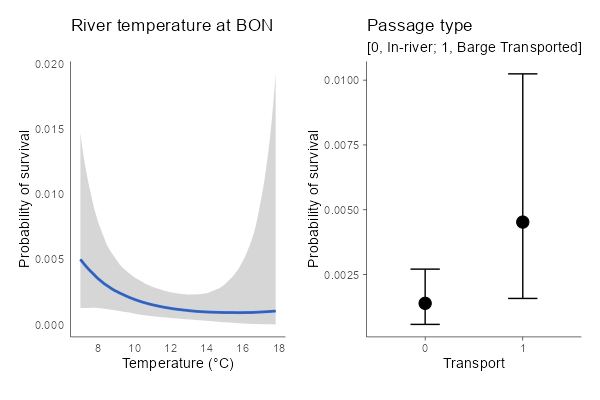
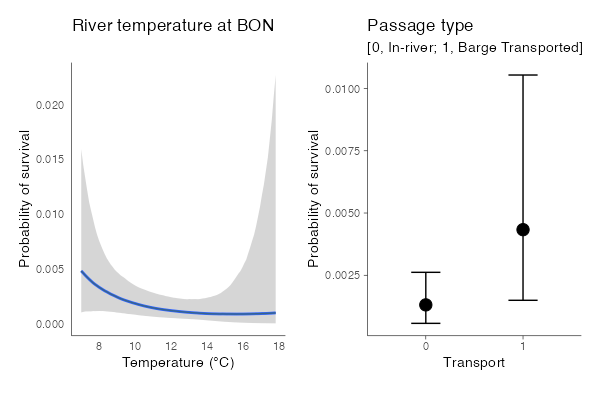
update estimate table and and cond_eff pngs

diff --git a/inst/app/www/table_mod_hatchery_chinook_temp.html b/inst/app/www/table_mod_hatchery_chinook_temp.html
@@ -12,37 +12,37 @@
 <tbody>
   <tr>
    <td style="text-align:left;"> Intercept </td>
-   <td style="text-align:right;"> -6.48 </td>
-   <td style="text-align:right;"> 0.39 </td>
-   <td style="text-align:right;"> -7.31 </td>
-   <td style="text-align:right;"> -5.81 </td>
+   <td style="text-align:right;"> -6.53 </td>
+   <td style="text-align:right;"> 0.38 </td>
+   <td style="text-align:right;"> -7.34 </td>
+   <td style="text-align:right;"> -5.84 </td>
   </tr>
   <tr>
    <td style="text-align:left;"> Temperature </td>
    <td style="text-align:right;"> -0.27 </td>
-   <td style="text-align:right;"> 0.09 </td>
-   <td style="text-align:right;"> -0.45 </td>
-   <td style="text-align:right;"> -0.10 </td>
+   <td style="text-align:right;"> 0.10 </td>
+   <td style="text-align:right;"> -0.47 </td>
+   <td style="text-align:right;"> -0.09 </td>
   </tr>
   <tr>
    <td style="text-align:left;"> Temp^2 </td>
    <td style="text-align:right;"> 0.03 </td>
    <td style="text-align:right;"> 0.06 </td>
-   <td style="text-align:right;"> -0.09 </td>
-   <td style="text-align:right;"> 0.14 </td>
+   <td style="text-align:right;"> -0.10 </td>
+   <td style="text-align:right;"> 0.13 </td>
   </tr>
   <tr>
    <td style="text-align:left;"> Transport </td>
-   <td style="text-align:right;"> 1.00 </td>
-   <td style="text-align:right;"> 0.32 </td>
-   <td style="text-align:right;"> 0.38 </td>
-   <td style="text-align:right;"> 1.69 </td>
+   <td style="text-align:right;"> 1.01 </td>
+   <td style="text-align:right;"> 0.33 </td>
+   <td style="text-align:right;"> 0.35 </td>
+   <td style="text-align:right;"> 1.70 </td>
   </tr>
   <tr>
    <td style="text-align:left;"> Temperature:Transport </td>
    <td style="text-align:right;"> 0.48 </td>
    <td style="text-align:right;"> 0.04 </td>
-   <td style="text-align:right;"> 0.40 </td>
+   <td style="text-align:right;"> 0.41 </td>
    <td style="text-align:right;"> 0.56 </td>
   </tr>
   <tr>
@@ -50,7 +50,7 @@
    <td style="text-align:right;"> -0.19 </td>
    <td style="text-align:right;"> 0.03 </td>
    <td style="text-align:right;"> -0.24 </td>
-   <td style="text-align:right;"> -0.13 </td>
+   <td style="text-align:right;"> -0.14 </td>
   </tr>
 </tbody>
 </table>

diff --git a/inst/app/www/table_mod_hatchery_steelhead_doy.html b/inst/app/www/table_mod_hatchery_steelhead_doy.html
@@ -13,15 +13,15 @@
   <tr>
    <td style="text-align:left;"> Intercept </td>
    <td style="text-align:right;"> -5.82 </td>
-   <td style="text-align:right;"> 0.25 </td>
-   <td style="text-align:right;"> -6.30 </td>
-   <td style="text-align:right;"> -5.33 </td>
+   <td style="text-align:right;"> 0.27 </td>
+   <td style="text-align:right;"> -6.39 </td>
+   <td style="text-align:right;"> -5.32 </td>
   </tr>
   <tr>
    <td style="text-align:left;"> Day-of-years (DOY) </td>
    <td style="text-align:right;"> -0.57 </td>
    <td style="text-align:right;"> 0.09 </td>
-   <td style="text-align:right;"> -0.75 </td>
+   <td style="text-align:right;"> -0.77 </td>
    <td style="text-align:right;"> -0.41 </td>
   </tr>
   <tr>
@@ -29,28 +29,28 @@
    <td style="text-align:right;"> -0.08 </td>
    <td style="text-align:right;"> 0.05 </td>
    <td style="text-align:right;"> -0.17 </td>
-   <td style="text-align:right;"> 0.01 </td>
+   <td style="text-align:right;"> 0.00 </td>
   </tr>
   <tr>
    <td style="text-align:left;"> Transport </td>
-   <td style="text-align:right;"> 0.75 </td>
+   <td style="text-align:right;"> 0.76 </td>
    <td style="text-align:right;"> 0.13 </td>
    <td style="text-align:right;"> 0.49 </td>
-   <td style="text-align:right;"> 1.02 </td>
+   <td style="text-align:right;"> 1.03 </td>
   </tr>
   <tr>
    <td style="text-align:left;"> DOY:Transport </td>
    <td style="text-align:right;"> 0.51 </td>
    <td style="text-align:right;"> 0.04 </td>
    <td style="text-align:right;"> 0.43 </td>
-   <td style="text-align:right;"> 0.59 </td>
+   <td style="text-align:right;"> 0.58 </td>
   </tr>
   <tr>
    <td style="text-align:left;"> DOY_z^2:Transport </td>
    <td style="text-align:right;"> -0.13 </td>
    <td style="text-align:right;"> 0.03 </td>
    <td style="text-align:right;"> -0.19 </td>
-   <td style="text-align:right;"> -0.07 </td>
+   <td style="text-align:right;"> -0.06 </td>
   </tr>
 </tbody>
 </table>

diff --git a/inst/app/www/table_mod_hatchery_chinook_doy.html b/inst/app/www/table_mod_hatchery_chinook_doy.html
@@ -12,31 +12,31 @@
 <tbody>
   <tr>
    <td style="text-align:left;"> Intercept </td>
-   <td style="text-align:right;"> -6.62 </td>
-   <td style="text-align:right;"> 0.43 </td>
-   <td style="text-align:right;"> -7.52 </td>
-   <td style="text-align:right;"> -5.82 </td>
+   <td style="text-align:right;"> -6.60 </td>
+   <td style="text-align:right;"> 0.40 </td>
+   <td style="text-align:right;"> -7.44 </td>
+   <td style="text-align:right;"> -5.83 </td>
   </tr>
   <tr>
    <td style="text-align:left;"> Day-of-years (DOY) </td>
    <td style="text-align:right;"> -0.23 </td>
-   <td style="text-align:right;"> 0.07 </td>
-   <td style="text-align:right;"> -0.37 </td>
+   <td style="text-align:right;"> 0.06 </td>
+   <td style="text-align:right;"> -0.35 </td>
    <td style="text-align:right;"> -0.11 </td>
   </tr>
   <tr>
    <td style="text-align:left;"> DOY^2 </td>
    <td style="text-align:right;"> 0.05 </td>
    <td style="text-align:right;"> 0.05 </td>
-   <td style="text-align:right;"> -0.06 </td>
-   <td style="text-align:right;"> 0.16 </td>
+   <td style="text-align:right;"> -0.05 </td>
+   <td style="text-align:right;"> 0.15 </td>
   </tr>
   <tr>
    <td style="text-align:left;"> Transport </td>
-   <td style="text-align:right;"> 0.95 </td>
-   <td style="text-align:right;"> 0.42 </td>
-   <td style="text-align:right;"> 0.09 </td>
-   <td style="text-align:right;"> 1.80 </td>
+   <td style="text-align:right;"> 0.91 </td>
+   <td style="text-align:right;"> 0.46 </td>
+   <td style="text-align:right;"> -0.04 </td>
+   <td style="text-align:right;"> 1.73 </td>
   </tr>
   <tr>
    <td style="text-align:left;"> DOY:Transport </td>
@@ -50,7 +50,7 @@
    <td style="text-align:right;"> -0.15 </td>
    <td style="text-align:right;"> 0.02 </td>
    <td style="text-align:right;"> -0.19 </td>
-   <td style="text-align:right;"> -0.12 </td>
+   <td style="text-align:right;"> -0.11 </td>
   </tr>
 </tbody>
 </table>

diff --git a/inst/app/www/table_mod_natural_steelhead_doy.html b/inst/app/www/table_mod_natural_steelhead_doy.html
@@ -13,36 +13,36 @@
   <tr>
    <td style="text-align:left;"> Intercept </td>
    <td style="text-align:right;"> -5.54 </td>
-   <td style="text-align:right;"> 0.23 </td>
+   <td style="text-align:right;"> 0.22 </td>
    <td style="text-align:right;"> -6.00 </td>
-   <td style="text-align:right;"> -5.06 </td>
+   <td style="text-align:right;"> -5.12 </td>
   </tr>
   <tr>
    <td style="text-align:left;"> Day-of-years (DOY) </td>
    <td style="text-align:right;"> -0.54 </td>
-   <td style="text-align:right;"> 0.12 </td>
-   <td style="text-align:right;"> -0.77 </td>
-   <td style="text-align:right;"> -0.31 </td>
+   <td style="text-align:right;"> 0.11 </td>
+   <td style="text-align:right;"> -0.76 </td>
+   <td style="text-align:right;"> -0.30 </td>
   </tr>
   <tr>
    <td style="text-align:left;"> DOY^2 </td>
    <td style="text-align:right;"> -0.09 </td>
    <td style="text-align:right;"> 0.06 </td>
-   <td style="text-align:right;"> -0.20 </td>
+   <td style="text-align:right;"> -0.21 </td>
    <td style="text-align:right;"> 0.02 </td>
   </tr>
   <tr>
    <td style="text-align:left;"> Transport </td>
    <td style="text-align:right;"> 1.32 </td>
    <td style="text-align:right;"> 0.17 </td>
-   <td style="text-align:right;"> 0.97 </td>
-   <td style="text-align:right;"> 1.68 </td>
+   <td style="text-align:right;"> 1.00 </td>
+   <td style="text-align:right;"> 1.66 </td>
   </tr>
   <tr>
    <td style="text-align:left;"> DOY:Transport </td>
    <td style="text-align:right;"> 0.19 </td>
-   <td style="text-align:right;"> 0.03 </td>
-   <td style="text-align:right;"> 0.12 </td>
+   <td style="text-align:right;"> 0.04 </td>
+   <td style="text-align:right;"> 0.11 </td>
    <td style="text-align:right;"> 0.26 </td>
   </tr>
   <tr>

diff --git a/inst/app/www/table_mod_natural_chinook_temp.html b/inst/app/www/table_mod_natural_chinook_temp.html
@@ -12,10 +12,10 @@
 <tbody>
   <tr>
    <td style="text-align:left;"> Intercept </td>
-   <td style="text-align:right;"> -5.86 </td>
+   <td style="text-align:right;"> -5.87 </td>
    <td style="text-align:right;"> 0.23 </td>
    <td style="text-align:right;"> -6.35 </td>
-   <td style="text-align:right;"> -5.43 </td>
+   <td style="text-align:right;"> -5.42 </td>
   </tr>
   <tr>
    <td style="text-align:left;"> Temperature </td>
@@ -28,7 +28,7 @@
    <td style="text-align:left;"> Temp^2 </td>
    <td style="text-align:right;"> 0.06 </td>
    <td style="text-align:right;"> 0.06 </td>
-   <td style="text-align:right;"> -0.04 </td>
+   <td style="text-align:right;"> -0.05 </td>
    <td style="text-align:right;"> 0.18 </td>
   </tr>
   <tr>
@@ -36,20 +36,20 @@
    <td style="text-align:right;"> 0.65 </td>
    <td style="text-align:right;"> 0.10 </td>
    <td style="text-align:right;"> 0.46 </td>
-   <td style="text-align:right;"> 0.88 </td>
+   <td style="text-align:right;"> 0.86 </td>
   </tr>
   <tr>
    <td style="text-align:left;"> Temperature:Transport </td>
    <td style="text-align:right;"> 0.38 </td>
-   <td style="text-align:right;"> 0.04 </td>
+   <td style="text-align:right;"> 0.05 </td>
    <td style="text-align:right;"> 0.29 </td>
    <td style="text-align:right;"> 0.47 </td>
   </tr>
   <tr>
    <td style="text-align:left;"> Temp_z^2:Transport </td>
-   <td style="text-align:right;"> -0.01 </td>
+   <td style="text-align:right;"> 0.00 </td>
    <td style="text-align:right;"> 0.04 </td>
-   <td style="text-align:right;"> -0.08 </td>
+   <td style="text-align:right;"> -0.07 </td>
    <td style="text-align:right;"> 0.07 </td>
   </tr>
 </tbody>

diff --git a/inst/app/www/table_mod_natural_steelhead_temp.html b/inst/app/www/table_mod_natural_steelhead_temp.html
@@ -13,30 +13,30 @@
   <tr>
    <td style="text-align:left;"> Intercept </td>
    <td style="text-align:right;"> -5.37 </td>
-   <td style="text-align:right;"> 0.17 </td>
-   <td style="text-align:right;"> -5.72 </td>
-   <td style="text-align:right;"> -5.03 </td>
+   <td style="text-align:right;"> 0.18 </td>
+   <td style="text-align:right;"> -5.74 </td>
+   <td style="text-align:right;"> -5.02 </td>
   </tr>
   <tr>
    <td style="text-align:left;"> Temperature </td>
-   <td style="text-align:right;"> -0.60 </td>
+   <td style="text-align:right;"> -0.61 </td>
    <td style="text-align:right;"> 0.12 </td>
-   <td style="text-align:right;"> -0.83 </td>
-   <td style="text-align:right;"> -0.38 </td>
+   <td style="text-align:right;"> -0.85 </td>
+   <td style="text-align:right;"> -0.36 </td>
   </tr>
   <tr>
    <td style="text-align:left;"> Temp^2 </td>
-   <td style="text-align:right;"> -0.15 </td>
+   <td style="text-align:right;"> -0.16 </td>
    <td style="text-align:right;"> 0.06 </td>
-   <td style="text-align:right;"> -0.27 </td>
-   <td style="text-align:right;"> -0.03 </td>
+   <td style="text-align:right;"> -0.28 </td>
+   <td style="text-align:right;"> -0.04 </td>
   </tr>
   <tr>
    <td style="text-align:left;"> Transport </td>
-   <td style="text-align:right;"> 1.31 </td>
+   <td style="text-align:right;"> 1.30 </td>
    <td style="text-align:right;"> 0.16 </td>
-   <td style="text-align:right;"> 1.01 </td>
-   <td style="text-align:right;"> 1.65 </td>
+   <td style="text-align:right;"> 0.99 </td>
+   <td style="text-align:right;"> 1.64 </td>
   </tr>
   <tr>
    <td style="text-align:left;"> Temperature:Transport </td>

diff --git a/inst/app/www/table_mod_hatchery_steelhead_temp.html b/inst/app/www/table_mod_hatchery_steelhead_temp.html
@@ -12,31 +12,31 @@
 <tbody>
   <tr>
    <td style="text-align:left;"> Intercept </td>
-   <td style="text-align:right;"> -5.67 </td>
+   <td style="text-align:right;"> -5.66 </td>
    <td style="text-align:right;"> 0.22 </td>
-   <td style="text-align:right;"> -6.11 </td>
-   <td style="text-align:right;"> -5.25 </td>
+   <td style="text-align:right;"> -6.09 </td>
+   <td style="text-align:right;"> -5.22 </td>
   </tr>
   <tr>
    <td style="text-align:left;"> Temperature </td>
    <td style="text-align:right;"> -0.76 </td>
    <td style="text-align:right;"> 0.09 </td>
-   <td style="text-align:right;"> -0.94 </td>
-   <td style="text-align:right;"> -0.59 </td>
+   <td style="text-align:right;"> -0.95 </td>
+   <td style="text-align:right;"> -0.58 </td>
   </tr>
   <tr>
    <td style="text-align:left;"> Temp^2 </td>
    <td style="text-align:right;"> -0.18 </td>
    <td style="text-align:right;"> 0.08 </td>
-   <td style="text-align:right;"> -0.33 </td>
+   <td style="text-align:right;"> -0.35 </td>
    <td style="text-align:right;"> -0.03 </td>
   </tr>
   <tr>
    <td style="text-align:left;"> Transport </td>
-   <td style="text-align:right;"> 0.75 </td>
-   <td style="text-align:right;"> 0.10 </td>
-   <td style="text-align:right;"> 0.54 </td>
-   <td style="text-align:right;"> 0.94 </td>
+   <td style="text-align:right;"> 0.74 </td>
+   <td style="text-align:right;"> 0.11 </td>
+   <td style="text-align:right;"> 0.53 </td>
+   <td style="text-align:right;"> 0.96 </td>
   </tr>
   <tr>
    <td style="text-align:left;"> Temperature:Transport </td>

diff --git a/inst/app/www/table_mod_natural_chinook_doy.html b/inst/app/www/table_mod_natural_chinook_doy.html
@@ -12,10 +12,10 @@
 <tbody>
   <tr>
    <td style="text-align:left;"> Intercept </td>
-   <td style="text-align:right;"> -5.94 </td>
-   <td style="text-align:right;"> 0.26 </td>
-   <td style="text-align:right;"> -6.46 </td>
-   <td style="text-align:right;"> -5.43 </td>
+   <td style="text-align:right;"> -5.92 </td>
+   <td style="text-align:right;"> 0.25 </td>
+   <td style="text-align:right;"> -6.42 </td>
+   <td style="text-align:right;"> -5.44 </td>
   </tr>
   <tr>
    <td style="text-align:left;"> Day-of-years (DOY) </td>
@@ -28,7 +28,7 @@
    <td style="text-align:left;"> DOY^2 </td>
    <td style="text-align:right;"> 0.11 </td>
    <td style="text-align:right;"> 0.05 </td>
-   <td style="text-align:right;"> 0.01 </td>
+   <td style="text-align:right;"> 0.02 </td>
    <td style="text-align:right;"> 0.20 </td>
   </tr>
   <tr>
@@ -36,7 +36,7 @@
    <td style="text-align:right;"> 0.71 </td>
    <td style="text-align:right;"> 0.11 </td>
    <td style="text-align:right;"> 0.50 </td>
-   <td style="text-align:right;"> 0.93 </td>
+   <td style="text-align:right;"> 0.96 </td>
   </tr>
   <tr>
    <td style="text-align:left;"> DOY:Transport </td>
@@ -49,7 +49,7 @@
    <td style="text-align:left;"> DOY_z^2:Transport </td>
    <td style="text-align:right;"> -0.07 </td>
    <td style="text-align:right;"> 0.03 </td>
-   <td style="text-align:right;"> -0.14 </td>
+   <td style="text-align:right;"> -0.13 </td>
    <td style="text-align:right;"> 0.00 </td>
   </tr>
 </tbody>
